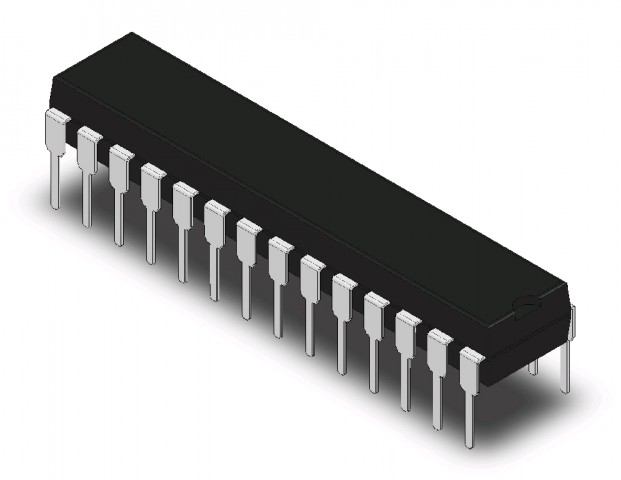
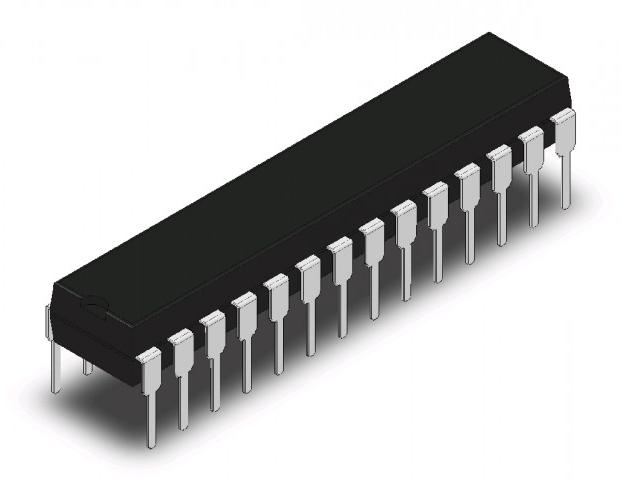
Draft of chapter 3

diff --git a/docs/chapters/3_solder_bare_bone_arduino/README.md b/docs/chapters/3_solder_bare_bone_arduino/README.md
@@ -31,7 +31,7 @@ Så här ser det ut på schematiskt vis:
 
 Vi ska göra samma elkrets.
 
-## 2.3. Att löda i din stil
+## 3.2. Att löda i din stil
 
 Vi kann löda en bare-bone Arduino på minst två sätt:
 
@@ -47,71 +47,141 @@ punkt-till-punkt lödning                           |Lödning med en prototype b
 Du får bestämma vad du föredrar.
 I den här fall är punkt-till-punkt lödning lättare.
 
+## 3.3. Att skala en sladd
 
-HIERO
+Med punkt-till-punkt lödning använder man mer sladdor,
+som måste blir skalade.
 
-## 2.3. Att skapa bryggar
+Använder en skalvertyg, t.ex. den här skaltång:
 
-Detta proffsigt exempel använde stel metal
-för att förbinda hålar. Vi kaller denna
-förbindingar 'bryggar'.
+```text
+TODO: picture of the thing
+```
 
-Man kann skapa bryggar av att skära av tråden
-av en motstånd med en avbitartång.
+Lägg tråden i hålet med rätt storlek.
 
-![Att bita av tråden med en avbitartång](pincer.jpg)
 
-## 2.4. Att buga
+```text
+TODO: picture of doing so
+```
 
-En böjtång med platta käftar är bra för att böja kantiga vinklar.
+Med tråden i skaltången, drar av skalen.
+Nu har du en skalad sladd.
 
-![En böjtång med platta käftar](flat_nose_pliers.jpg)
+```text
+TODO: picture of a skalad sladd
+```
 
-En låsringstång är en böjtång för att böja rundningar.
+Ofta man lägger tänn på sladdens spets,
+när sladden blir en enkelt koppling.
+Om sladden blir del av en koppling med flera sladdor,
+lägger man ofta ingen tänn på sladden-
 
-![En låsringstång](round_nose_pliers.jpg)
+```text
+TODO: picture of doing so
+```
 
-## 2.5. Att laga saker
+Om man har lagt tänn på sladdens spets (eller tidigare),
+skär man av en del av sladden för att får rätta längden.
 
-Ibland gör man fel. I så fall är tännsugaren en nyttig redskap.
 
-Tännsugare är ur                       |Tännsugare är in
----------------------------------------|---------------------------------------
-![Tännsugare är ur](taennsugare_ur.jpg)|![Tännsugare är in](taennsugare_in.jpg)
+```text
+TODO: picture of a prepared wire
+```
 
-För att förberada, tryck in kolven av tännsugare. Nu är tännsugare
-redo för att suga bort tänn.
+## 3.4. Att krympa
 
-Hetta tänn du vill suga bort med lödningsjärnet och håll tännsugare åt den
-smältande tänn. Det är inget problem att tännsugaren blir het: den är byggt för
-att motstå detta.
+En fara med punkt-till-punkt lödning är att den blotta delar av sladdar
+nå varann, med risk för kortslutning.
 
-Nar tänn är smältat, tryck på knappen av tännsugaren. Förhoppningsvis,
-om du har hållit tännsugarden rätt (och det kan vara tufft!), blir
-tänn bortsugt. Om du trycker in kolven av tännsugaren kann du ser allt
-tänn som har sugits ur.
+Leta efter den krympslangar.
 
-## 2.6. Att testa
+```text
+TODO: IMAGE OF CRIMP THINGIES
+```
 
-Om du har lödat klar, kann du sätta shielden på Arduinon.
-Ledar all stiftar av shielden i hålar av Arduinon.
-Du behöver inte trycka ner shielden kraftfult:
-om stiftar är halvvägs hålorna funkar det redan.
+Hitta en krympslang som just passar omkring sladder du vill löda.
+Använder en sax för att förkorta detta till den önskade längd.
+Före en lödning, skjut din krympslang over en sladd, så att du kann
+skjuta den över din förbindning efter lödningen.
 
-![Shielden är på Arduino](shield_on_arduino.jpg)
+```text
+TODO: IMAGE OF CRIMP THINGIES IN PLACE ON WIRE
+```
 
-Koppla Arduinon till dator och start Arduino IDE.
-I Arduino IDEn, ladda upp programmet 'Blink'
-(under 'File | Examples | Basic | Blink').
-Om lysdioden blinkar har du klarat detta!
+Löda som vanligt och skjuter krympslangen över förbindingen.
 
-## 2.6. Slutuppgift
+```text
+TODO: IMAGE OF CRIMP THINGIES IN PLACE
+```
 
-Löda elkretsen på shielden i din favoritstil
+Håll kort din lödningsjärn år krympslangen.
+Krympslangen krymper nu tajt om din förbindning.
+
+```text
+TODO: IMAGE OF CRIMP THINGIES IN PLACE
+```
+
+Nu kann du vara säker/säkrare att har ingen kortslutning.
+
+## 3.5. Elförsörjning
+
+För elförsörjning använder vi en USB-A sladd, som vi kann sticka i
+en dator eller adaptorer.
+
+![En USB-A sladd](ubs_a.jpg)
+
+Skär uppet sladden. I sladden finns det tre eller fyra sladdor.
+Den röda sladden bär 5V spänningen. Om det finns en svart sladd:
+den är GND. Om det finns ingen svart sladd, finns det en sladd utan hylsa
+och den är GND istället.
+
+## 3.6. Sockla måste vara tomt under lödningen
+
+Chipsocklan måste var tomt, så att ATmege328P chip blir inte skadat
+av lödningen. I all ritningar är båda socklan och chippen
+ritat med glipan till vänster.
+
+![Chipsocklan är tomt och med glipan till vänster](ic_socket.jpg)
+
+## 3.7. Kristallet är tuffast
+
+Den tuffaste del är att löda kristallet och den två
+kondensatorer. Båda kristallet och kondensatorer
+måste vara nära chipsockla. Räkna noggrant vilka
+ben av chipsocklan du löder!
+
+Med punkt-till-punkt lödning är det här lättare:
+löda en kondensatorer till varje ben av kristallet,
+och efter det, löda kristallet till socklan.
+Den olödade ben av kondensatorer gå båda till GND.
+
+## 3.8. Glöm inte lysdioden
+
+Lysdioden är den ena nyttiga sak vi kopplar till vår bare-bone
+Arduino. Självklart: man kan anvanda fler stiftar och ladd upp
+en mer komplicerat program till chippen.
+
+## 3.9. Att löda mycket sladdor tillsammans
+
+Det är normalt att har fler 5V sladdor och fler GND sladdor.
+
+För att löda dem, skala dem lite längre och -utan tänn- fläkter
+tråderna ihop.
+
+```text
+TODO: pic of this.
+```
+
+Lägg till tänn till alla tråder är lödade.
+
+```text
+TODO: pic of this.
+```
+
+## 3.10. Slutuppgift
+
+Löda en bare-bone Arduino i din favoritstil
 och testar om det funkar.
 
 Om det funkar, har du klarat av slutuppgiften.
-
-
-## 3.x. Slutuppgift
-